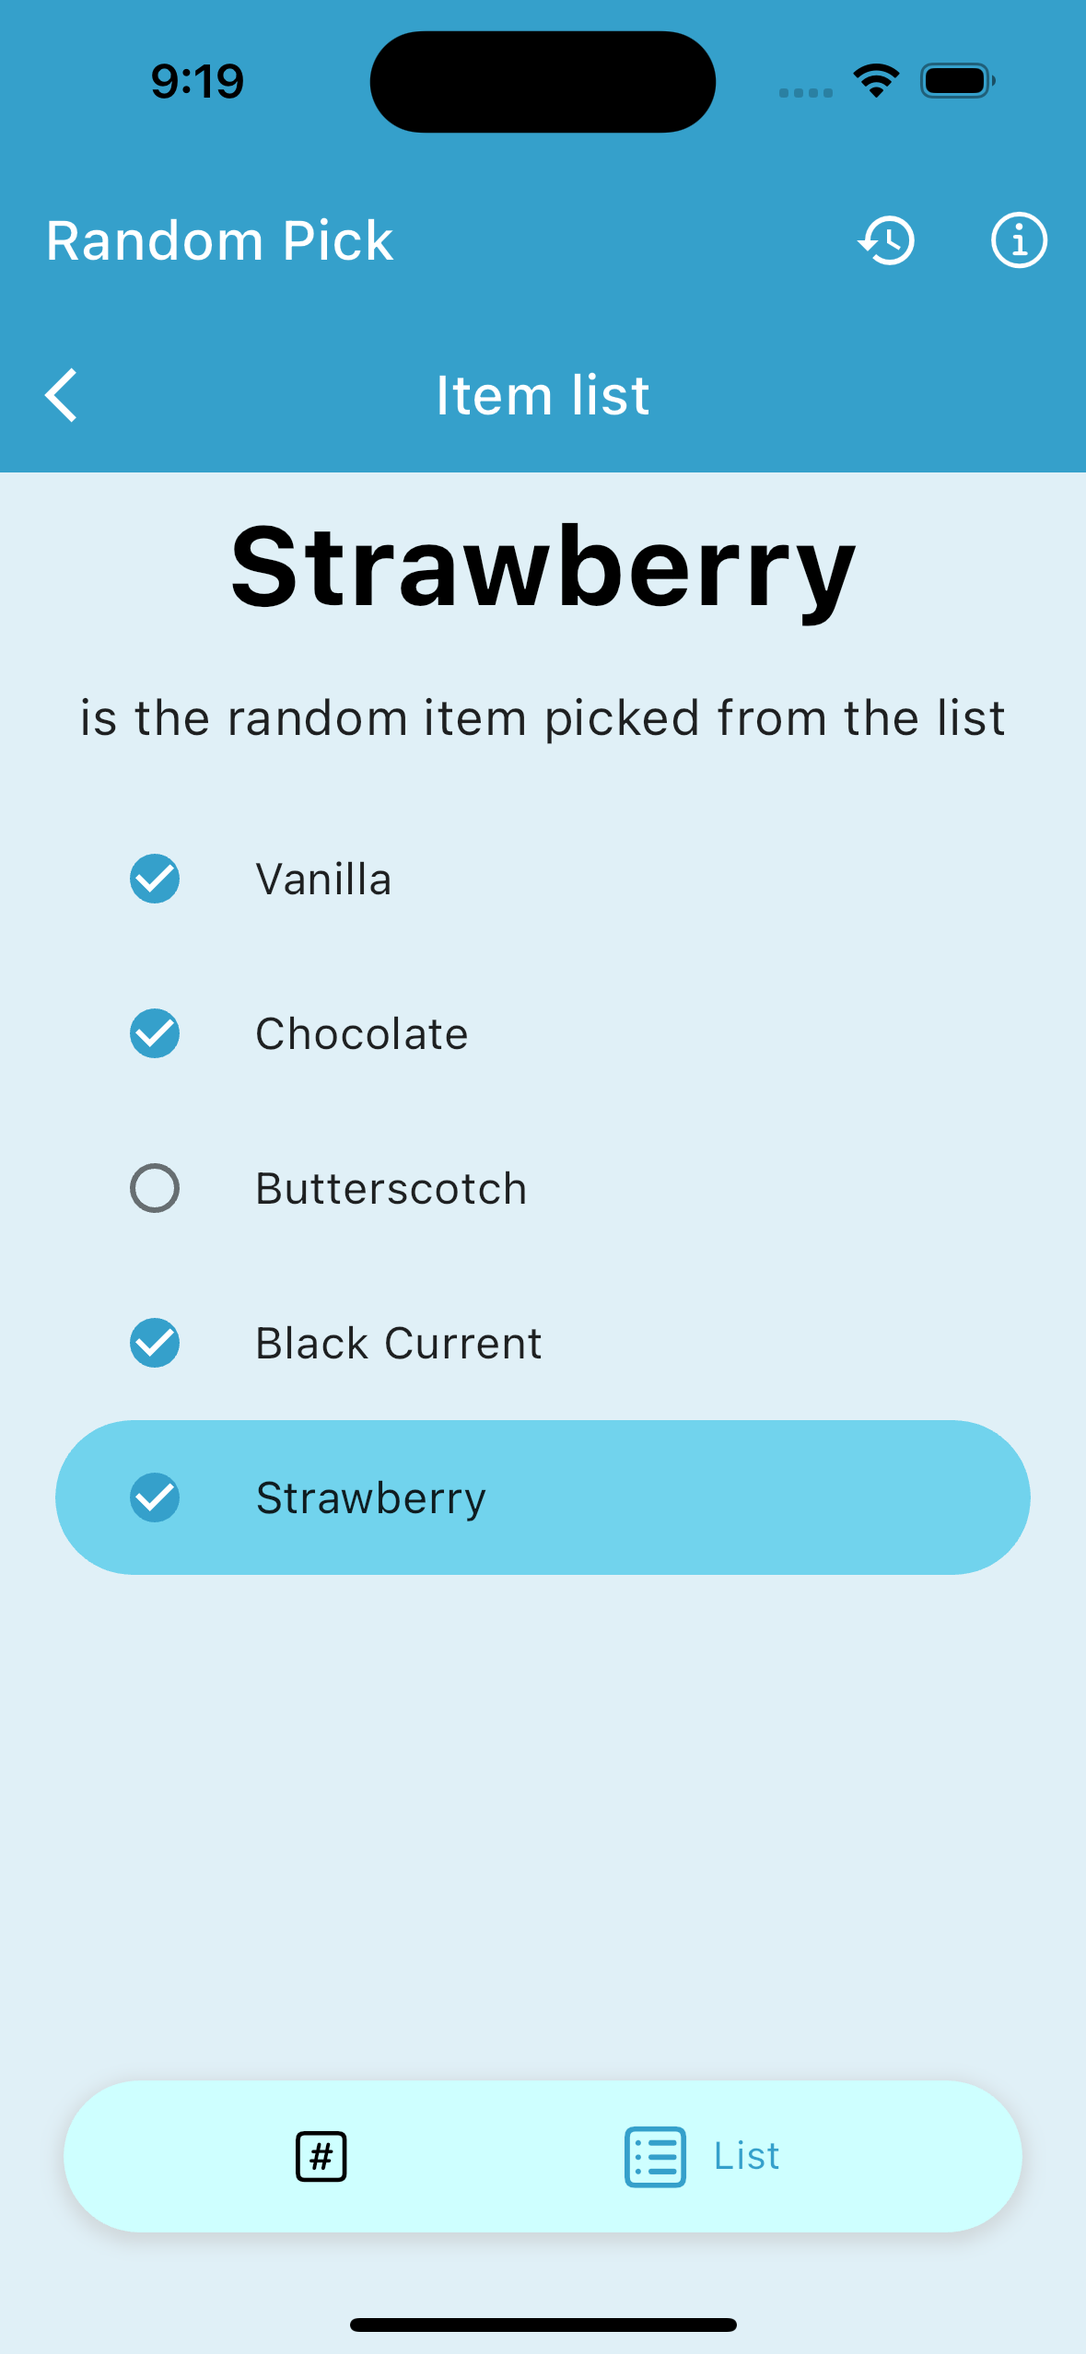
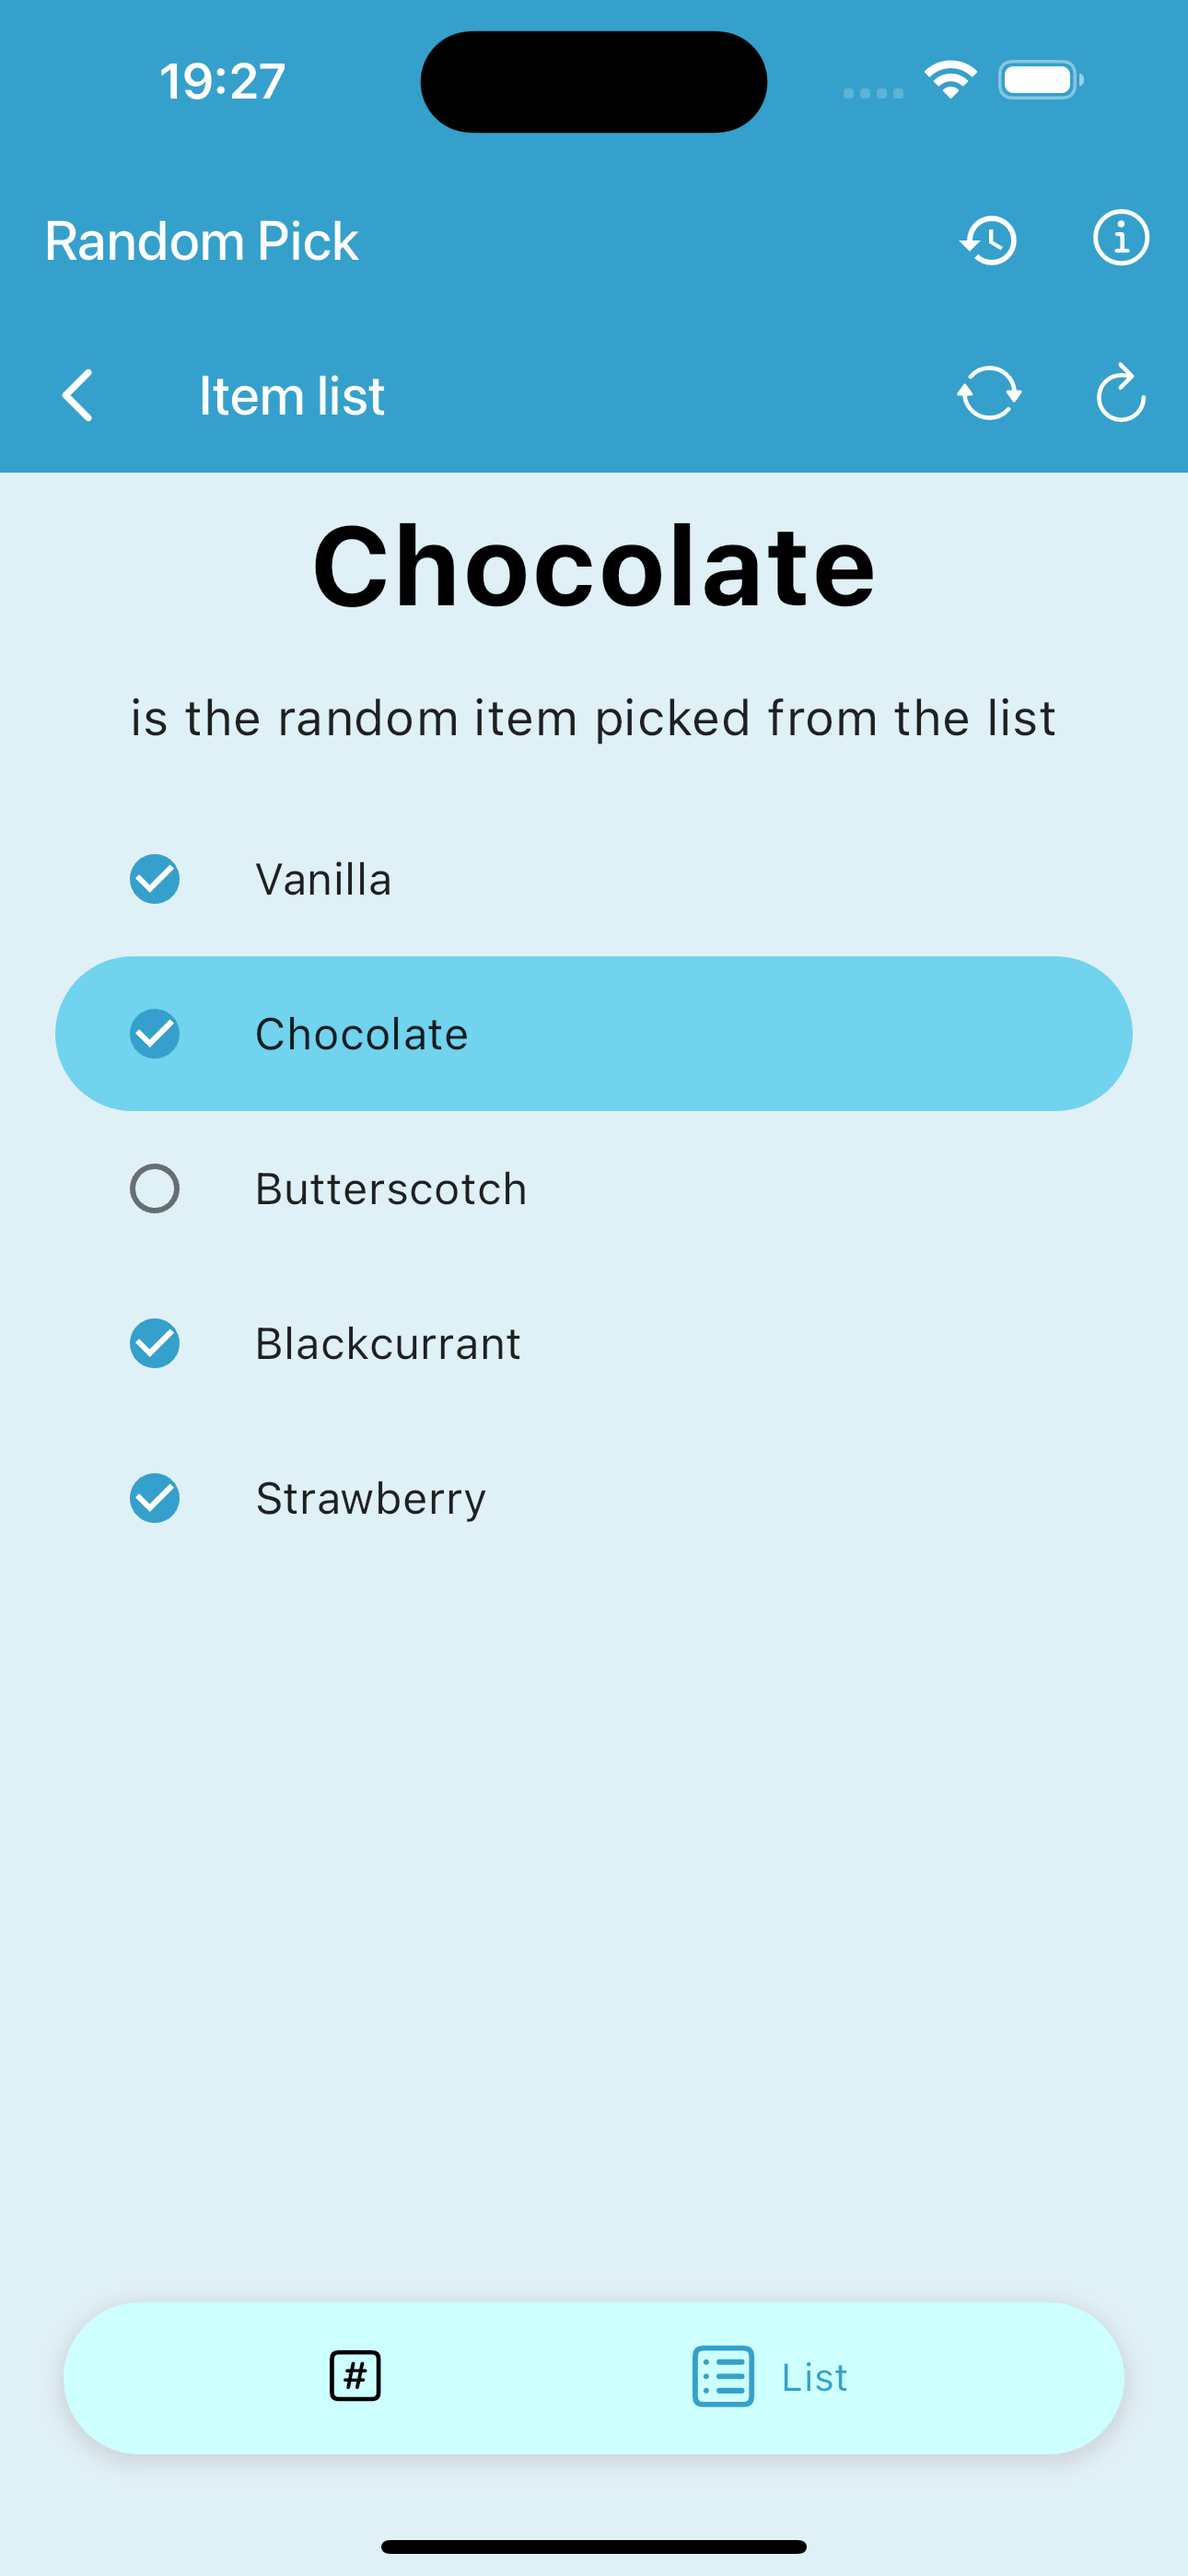
chore: bump version and update readme

diff --git a/README.md b/README.md
@@ -35,6 +35,7 @@ The application has the following functions as of now.
 1. Numbers - It takes in two integer values __min__ _(inclusive)_ and __max__ _(inclusive)_, then returns a picked random number from the range.
 2. List - It takes a list of items<sup>[1]</sup>, then returns a random item (picked) from the pool. The items inside the list can be (un)checked to include in the item pool.
 3. History - All the picks are stored in the device, with an option to delete them when not needed.
+4. RePick - Once an item is picked from a List, It can be re-picked from the picked list either immediately or from the History.
 
 <sup>[1]</sup>item: The item can be any string - a number, a name, a place, an animal, a thing, an object, etc.
 
